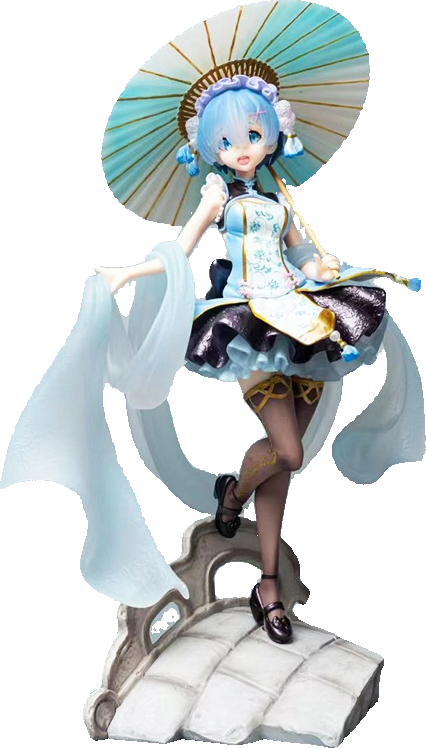
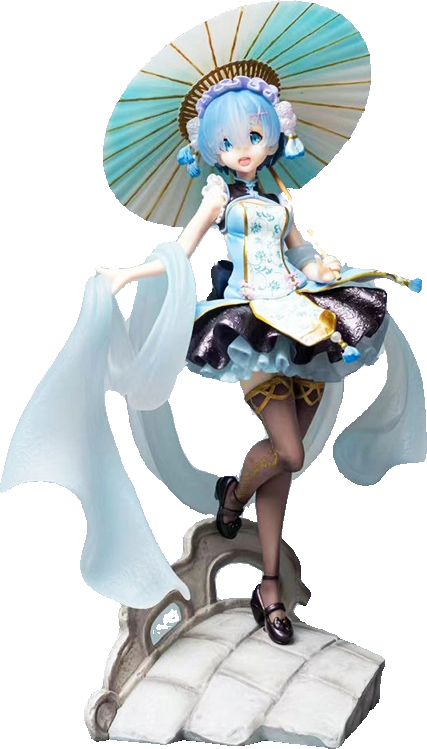
remu_img

diff --git a/put_canvas.py b/put_canvas.py
@@ -9,11 +9,9 @@ from PIL import Image
 
 
 def create_canvas_and_transform_image(img_rgba, canvas_size, scale_factor, rotation_angle, translation_xy):
-    """
-        
-    """
     H, W = canvas_size
     img_h, img_w = img_rgba.shape[:2]
+    # print(f'Image size ={img_h}x{img_w}')
     # Step 1: Create a canvas
     canvas = np.zeros((H, W, 4), dtype=np.uint8)
     # Step 2: Place img_rgba in the center of the canvas
@@ -74,22 +72,23 @@ def add_pure_background(img_add):
     
 base_path = 'figs/outputs'
 output_path = 'figs/geo_outputs'
-image_path = f'{base_path}/motor_vit_s_pts_mask_BGRA_cropped.png'
-mask_path = f'{base_path}/motor_vit_s_pts_mask_cropped.npy'
-
+img_name = 'remu' # motor
+image_path = f'{base_path}/{img_name}_vit_s_pts_mask_BGRA_cropped.png'
+# mask_path = f'{base_path}/{img_name}_vit_s_pts_mask_cropped.npy'
+# mask = np.load(mask_path) # H, W
 img_bgra = cv2.imread(image_path, cv2.IMREAD_UNCHANGED) # H, W, 4
-mask = np.load(mask_path) # H, W
+
 
 # Example usage
-canvas_size = (640, 1024)  # Example canvas size
-scale_factor = 0.7  # Example scaling factor
-rotation_angle = 15  # Example rotation angle in degrees
-translation_xy = (50, -30)  # Example translation (x, y)
+canvas_size = (960, 640)  # Example canvas size
+scale_factor = 1.05  # Example scaling factor
+rotation_angle = 0  # Example rotation angle in degrees
+translation_xy = (-20, 80)  # Example translation (x, y)
 
 # Perform transformations and get the final image and mask
 img_add, mask = create_canvas_and_transform_image(img_bgra, canvas_size, scale_factor, rotation_angle, translation_xy)
-img_background=add_pure_background(img_add)
+img_background = add_pure_background(img_add)
 
-cv2.imwrite(os.path.join(output_path, 'motor_mask.png'), mask.astype(np.uint8) * 255)
-cv2.imwrite(os.path.join(output_path, 'motor_canvas.png'), img_add)
-cv2.imwrite(os.path.join(output_path, 'motor_background.png'), img_background)
+cv2.imwrite(os.path.join(output_path, f'{img_name}_mask.png'), mask.astype(np.uint8) * 255)
+cv2.imwrite(os.path.join(output_path, f'{img_name}_canvas.png'), img_add)
+cv2.imwrite(os.path.join(output_path, f'{img_name}_background.png'), img_background)

diff --git a/EfficientSAM_demo.py b/EfficientSAM_demo.py
@@ -21,7 +21,7 @@ model = efficient_sam_model_registry[model_type]()
 example_img_path = 'figs/examples'
 output_img_path = 'figs/outputs'
 
-img_name = 'motor.jpg'
+img_name = 'remu.png'
 img_name_no_ext = re.sub(r'\.[^.]*$', '', img_name)
 
 sample_image_np = cv2.imread(osp.join(example_img_path, img_name))
@@ -49,9 +49,15 @@ def run_points_sample():
         对于这个演示，我们使用第一个掩码
     """
     plt.cla()
-    input_points = torch.tensor([[[[200, 320], [660, 60], [600, 300], [775, 475]]]])
-    input_labels = torch.tensor([[[1, 1, 1, 0]]])
-
+    
+    # # motor
+    # input_points = torch.tensor([[[[200, 320], [660, 60], [600, 300], [775, 475]]]])
+    # input_labels = torch.tensor([[[1, 1, 1, 0]]])
+    
+    #remu
+    input_points = torch.tensor([[[[400, 700], [450, 100], [250, 480]]]])
+    input_labels = torch.tensor([[[1, 1, 1]]])
+    
     plt.figure(figsize=(10,10))
     plt.imshow(sample_image_np)
     show_points(input_points.numpy(), input_labels.numpy(), plt.gca())
@@ -90,8 +96,7 @@ def run_points_sample():
     save_crop_image_mask(
         sample_image_np, 
         mask, 
-        save_path=osp.join(output_img_path, f"{img_name_no_ext}_{model_type}_pts_mask_BGRA_cropped.png"),
-        mask_path=osp.join(output_img_path, f"{img_name_no_ext}_{model_type}_pts_mask_cropped.npy"))
+        save_path=osp.join(output_img_path, f"{img_name_no_ext}_{model_type}_pts_mask_BGRA_cropped.png"))
     print(f'{model_type}推理完成')
     
 
@@ -128,8 +133,7 @@ def run_bbox_sample():
                             save_path=osp.join(output_img_path, 
                                                f"{img_name_no_ext}_{model_type}_box_mask{i}_BGRA.png"))
         save_crop_image_mask(sample_image_np, mask[i], 
-                                    save_path=osp.join(output_img_path, 
-                                                       f"{img_name_no_ext}_{model_type}_box_mask{i}_BGRA_cropped.png"))
+                             save_path=osp.join(output_img_path, f"{img_name_no_ext}_{model_type}_box_mask{i}_BGRA_cropped.png"))
     print(f'{model_type}推理完成')
     
     

diff --git a/efficient_sam/utils/img_utils.py b/efficient_sam/utils/img_utils.py
@@ -38,7 +38,7 @@ def save_transparent_img(sample_image_np, mask, save_path):
     cv2.imwrite(save_path, masked_image_np)
 
 
-def save_transparent_image_with_border(sample_image_np, mask, save_path):
+def save_crop_image_mask(sample_image_np, mask, save_path):
     # 保存为带有透明度的四通道BGRA格式：
     sample_image_np = sample_image_np.copy().astype(np.uint8)
     sample_image_np = cv2.cvtColor(sample_image_np, cv2.COLOR_RGB2BGRA)  # 转换为带有透明度的图像
